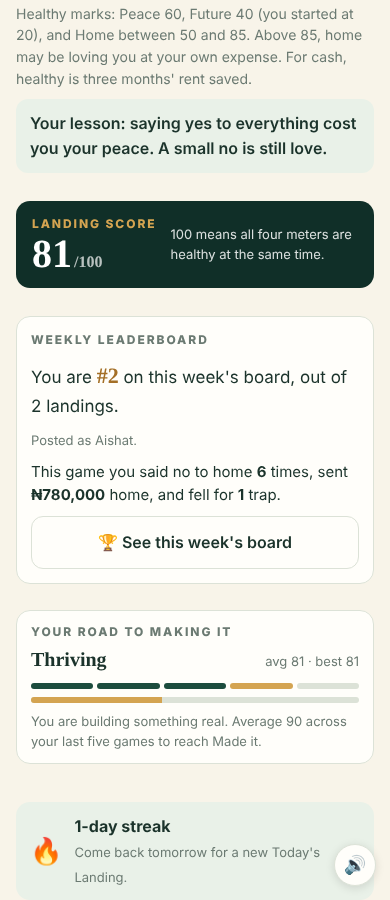
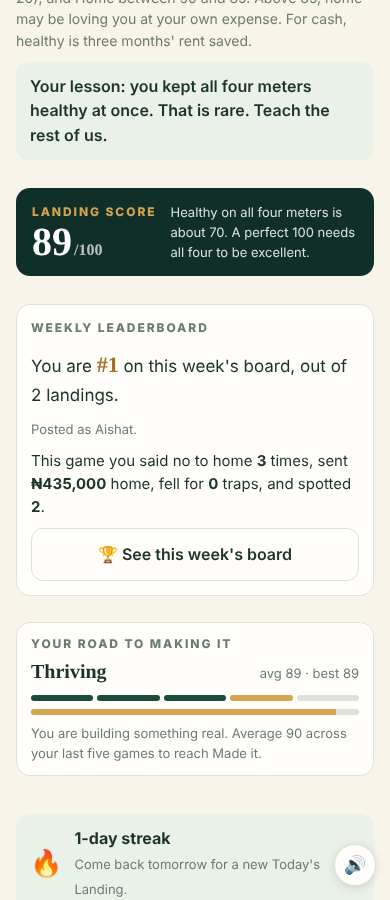
Add the converting-to-naira grocery scene
Claude-Session: https://claude.ai/code/session_01RtxNzUyAGZCdrsYtNVf3P3

diff --git a/index.html b/index.html
@@ -1316,6 +1316,13 @@ const routeAlts = () => { const c = C(), k = R.key, out = [];
   return out;
 };
 
+/* ---------- Converting everything to naira ---------- */
+const convertScene = () => ({day:4, credit:'Nafeezie', own:1, text:`Your first small grocery shop comes to ${M(A(40))}. Before you can stop it, your brain converts. That is ${NG(40)}, a full market run for a family in ${O()}. Your hand starts to shake.`,
+  choices:[
+   {l:"Convert it all. Suffer in naira", fx:{cash:A(15), peace:-6}, r:"You put back the yoghurt, the juice, and the good rice. Dinner is bread, and your heart is racing."},
+   {l:"Stop converting. Peace of mind", fx:{cash:-A(10), peace:4}, r:"You pay and walk out like a local. Your account will discuss it with you later."},
+   {l:"Convert only the big things", fx:{peace:2, future:3}, r:"Rent and phones, you convert. Bread, you just buy. Your sanity says thank you."}]});
+
 /* ---------- WhatsApp survival ---------- */
 const whatsapp = () => { const c = C(); return [
  {day:10, text:`You finally take a fine picture in ${T()}, with good light, a new outfit, and a face that says abroad is treating you well. It belongs on your WhatsApp status. The trouble is that home reads every status as a signal for billing.`,
@@ -1377,7 +1384,7 @@ const guestStay = () => { const c = C(), host = s => pickV('HOST',2)===0; return
 
 function scenes(){
   const base = [arrival(), barNight()].concat(R.key==='us' ? US() : R.key==='uk' ? UK() : CA());
-  return base.concat(routeAlts(), pathScenes(), fundScenes(), guestStay(), [familyGroup(), whatsapp(), mishap(), smallWin(), countryMoment(), padaScene()]).map((sc,i)=>({sc,i})).sort((a,b)=>a.sc.day-b.sc.day || a.i-b.i).map(x=>x.sc);
+  return base.concat(routeAlts(), pathScenes(), fundScenes(), guestStay(), [convertScene(), familyGroup(), whatsapp(), mishap(), smallWin(), countryMoment(), padaScene()]).map((sc,i)=>({sc,i})).sort((a,b)=>a.sc.day-b.sc.day || a.i-b.i).map(x=>x.sc);
 }
 
 function autoEvent(kind){
